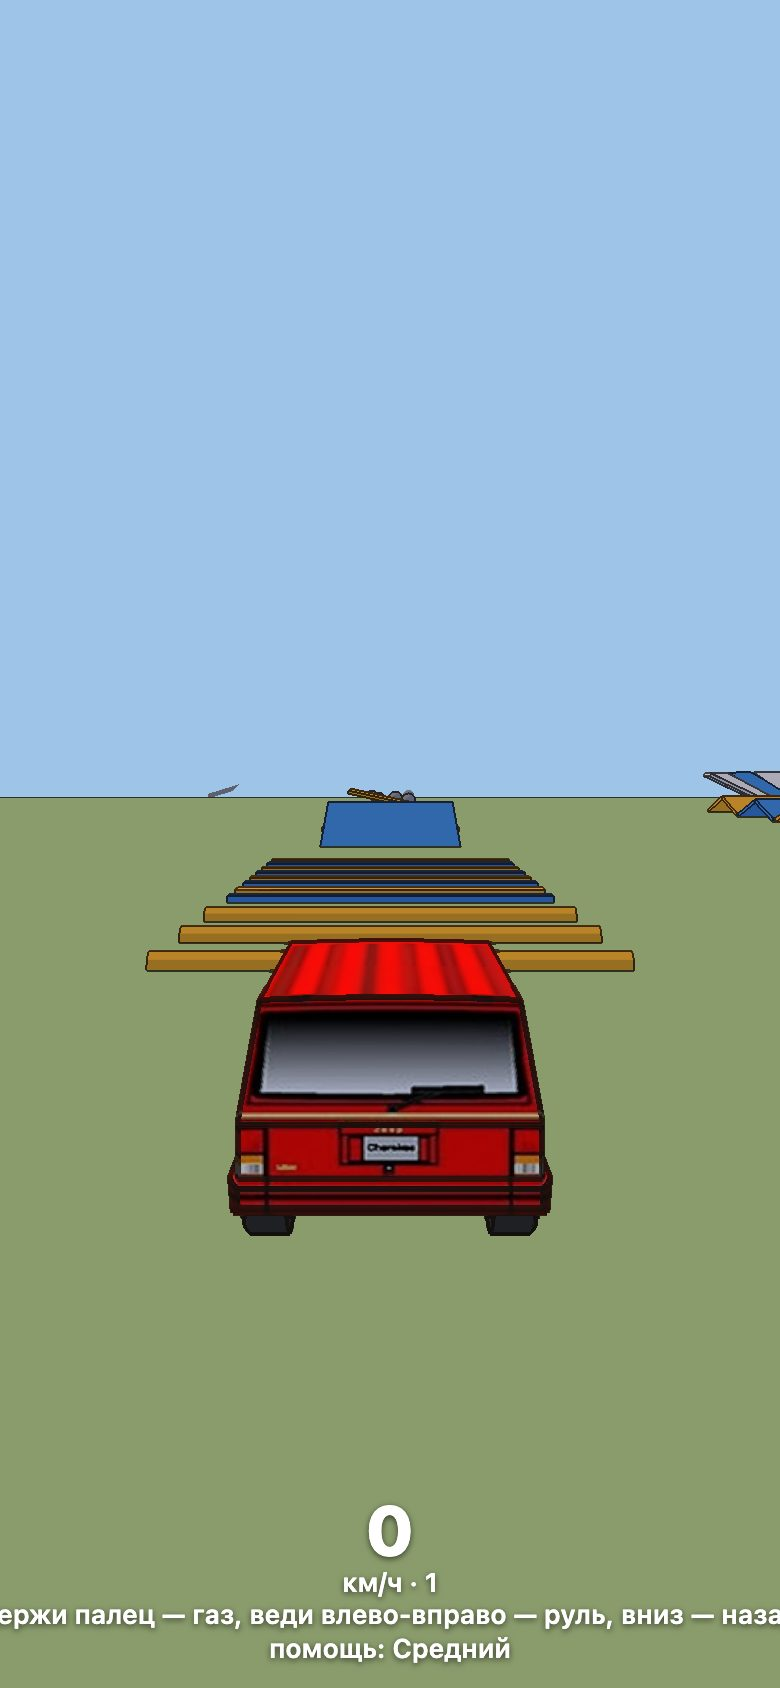
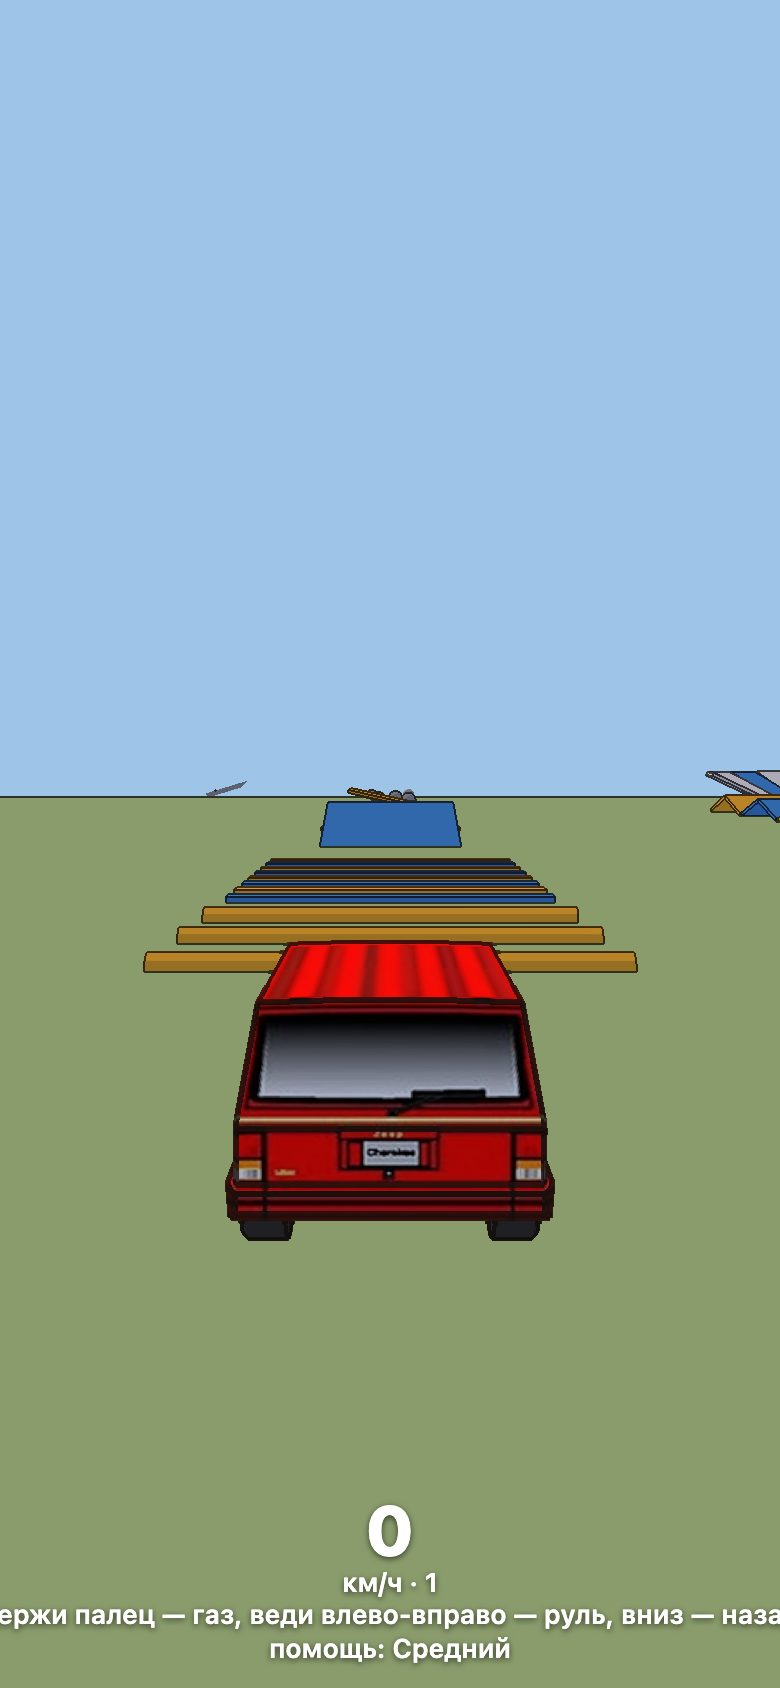
preview: car-smash (engine b232de3)

Changed region(s): [[0.1846, 0.5237, 0.8308, 0.7393], [0.8923, 0.4621, 1.0, 0.4929]]

diff --git a/car-smash/index.html b/car-smash/index.html
@@ -5,7 +5,7 @@
 
     <meta charset="UTF-8" />
     <meta name="viewport" content="width=device-width, initial-scale=1, maximum-scale=1, user-scalable=no, viewport-fit=cover" />
-    <title>CarSmash (в разработке)</title>
+    <title>CarSmash</title>
     <style>html,body{touch-action:none;background:#000;height:100%;margin:0;overflow:hidden}#app{position:fixed;inset:0}#app canvas{display:block}</style>
     <script type="module" crossorigin>var e=Object.defineProperty,t=(e,t,n)=>()=>{if(n)throw n[0];try{return e&&(t=e(e=0)),t}catch(e){throw n=[e],e}},n=(e,t)=>()=>(t||(e((t={exports:{}}).exports,t,t.exports),e=null),t.exports),r=(t,n)=>{let r={};for(var i in t)e(r,i,{get:t[i],enumerable:!0});return n||e(r,Symbol.toStringTag,{value:`Module`}),r},i={};function a(e,t,n,r){let a=i[e];a||=i[e]=[],a.push(t,n||null,r||!1)}function o(e,t,n){let r=i[e];if(r){if(!t)delete i[e];else{let a=[];for(let e=0;e<r.length;e+=3)(r[e]!==t||n!==void 0&&r[e+1]!==n)&&a.push(r[e],r[e+1],r[e+2]);a.length===0?delete i[e]:i[e]=a}}}function s(e,t,n,r){let a=i[e];if(!a||a.length===0)return;let s=arguments.length,c=a.length,l,u;for(let i=0;i<c;i+=3)l=a[i],u=a[i+1],a[i+2]&&o(e,l,u),s<=1?l.call(u):s==2?l.call(u,t):s==3?l.call(u,t,n):l.call(u,t,n,r)}var c=0,l=c++,u=c++,d=c++,f=c++,p=c++,m=c++,h=c++,g=c++,_=c++,v=c++,y=c++,b=l;function x(){return b===u}function S(){return b===d}function C(){return b===f}function w(){return b===p}function T(){return b===v}function E(){return b===m}function D(){return b===h}function O(){return b===g}function k(){return b===_}function A(){return b===y}function j(){if(AD_PROTOCOL===`mraid`)try{mraid.getState(),b=u}catch{}else if(AD_PROTOCOL===`dapi`)try{dapi.isReady(),b=d}catch{}else if(AD_NETWORK===`facebook`||AD_NETWORK===`moloco`||AD_NETWORK===`mytarget`)try{FbPlayableAd&&(b=p)}catch{}else if(AD_NETWORK===`google`)try{ExitApi&&(b=m)}catch{}else if(AD_NETWORK===`mintegral`)window.gameReady&&(b=h);else if(AD_NETWORK===`tapjoy`)window.TJ_API&&(b=g);else if(AD_NETWORK===`tiktok`||AD_NETWORK===`pangle`)window.openAppStore&&(b=_);else if(AD_NETWORK===`smadex`)try{smxTracking&&(b=v)}catch{}else if(AD_NETWORK===`snapchat`)try{ScPlayableAd&&(b=y)}catch{}}function M(){if(AD_NETWORK===`bigabid`||AD_NETWORK===`inmobi`||AD_NETWORK===`remerge`){let t=function(e){if(e){let t=new Image;t.src=e}};if(AD_NETWORK===`bigabid`){let n=function(e){window.BIGABID_BIDTIMEMACROS&&window.BIGABID_BIDTIMEMACROS[e]&&t(window.BIGABID_BIDTIMEMACROS[e])},r=function(){e||n(`complete`),e=!0};var e=!1;H.once(`boot`,()=>n(`mraid_viewable`)),H.once(`start`,()=>n(`game_viewable`)),H.once(`interaction`,()=>n(`engagement`)),H.once(`finish`,r),H.on(`interaction`,e=>{e>3&&r()}),H.once(`install`,()=>n(`click`))}else if(AD_NETWORK===`inmobi`){let e=function(e){window.INMOBI_DSPMACROS&&window.INMOBI_DSPMACROS[e]&&t(window.INMOBI_DSPMACROS[e])};H.once(`boot`,()=>e(`Ad_Load_Start`)),H.once(`start`,()=>e(`Ad_Viewable`)),H.once(`interaction`,()=>e(`First_Engagement`)),H.once(`finish`,()=>e(`Gameplay_Complete`)),H.once(`install`,()=>e(`DSP_Click`)),H.once(`start`,()=>{setTimeout(()=>e(`Spent_5_Seconds`),5e3),setTimeout(()=>e(`Spent_10_Seconds`),1e4),setTimeout(()=>e(`Spent_15_Seconds`),15e3),setTimeout(()=>e(`Spent_20_Seconds`),2e4),setTimeout(()=>e(`Spent_25_Seconds`),25e3),setTimeout(()=>e(`Spent_30_Seconds`),3e4)})}else if(AD_NETWORK===`remerge`){let e=function(e){window.REMERGE_BIDTIMEMACROS&&window.REMERGE_BIDTIMEMACROS[e]&&t(window.REMERGE_BIDTIMEMACROS[e])};H.once(`boot`,()=>e(`ready`)),H.once(`start`,()=>e(`impression`)),H.once(`interaction`,()=>e(`engagement`)),H.once(`install`,()=>e(`click`)),H.on(`error`,(e,n)=>{window.REMERGE_BIDTIMEMACROS&&window.REMERGE_BIDTIMEMACROS.error&&t(window.REMERGE_BIDTIMEMACROS.error.replace(/\{DOMAIN\}/g,encodeURIComponent(n||``)).replace(/\{ERR_MSG\}/g,encodeURIComponent(e||``)))})}}}var N=500,P=0,F=!1,I=!1,L=!1;function ee(e){return function(t){let n=t.changedTouches,r=t;if(n)P=t.timeStamp,r=n[0];else if(t.timeStamp-P<N)return;if(e===`pointerdown`)F=!0,H.interactions+=1,s(`interaction`,H.interactions);else if(F)e===`pointerup`&&(F=!!n&&t.touches.length>0);else return;s(e,r.clientX,r.clientY,t)}}var te=ee(`pointerdown`),ne=ee(`pointermove`),R=ee(`pointerup`);function re(e,t){document.addEventListener(e,t)}function z(){I||(I=!0,re(`mousedown`,te),re(`touchstart`,te),re(`mouseup`,R),re(`touchend`,R),re(`touchcancel`,R))}function ie(){L||(L=!0,re(`mousemove`,ne),re(`touchmove`,ne))}var ae=``,oe=!1,se=!1,ce=!1,le=!1,ue=1,de=()=>{};function fe(){H.isReady||=(s(`boot`),document.body.oncontextmenu=function(){return!1},de(H.maxWidth,H.maxHeight),s(`ready`),!0)}function pe(e){s(`volume`,e)}function me(e){H.volume=e,pe(e)}function he(e){ue=e,H.isPaused||me(ue)}function ge(){me(0),H.isPaused=!0,s(`pause`)}function _e(){ce||(me(ue),H.isPaused=!1,s(`resume`))}function B(e,t){xe(e,t)}function ve(){if(AD_PROTOCOL!==`mraid`||se)return;mraid.removeEventListener(`ready`,ve);function e(e){if(e){if(_e(),!H.isReady){let e=mraid.getMaxSize();H.maxWidth=Math.floor(e.width),H.maxHeight=Math.floor(e.height),fe()}}else ge()}function t(){return mraid.isViewable()&&mraid.getState()!==`hidden`}function n(){e(t())}mraid.addEventListener(`viewableChange`,n),mraid.addEventListener(`stateChange`,n),t()&&e(!0),mraid.getAudioVolume&&(mraid.getAudioVolume()?he(1):he(0)),mraid.addEventListener(`audioVolumeChange`,function(e){e!==null&&he(+(e>0))}),mraid.addEventListener(`error`,function(e,t){console.log(`mraid error: `+e+`   action: `+t),s(`error`,e,t)}),AD_NETWORK===`unity`?window.addEventListener(`resize`,function(){let e=mraid.getMaxSize();B(e.width,e.height)}):mraid.addEventListener(`sizeChange`,function(){let e=mraid.getMaxSize();B(e.width,e.height)}),se=!0}function ye(){if(AD_PROTOCOL!==`dapi`||se)return;function e(e){if(e.isViewable){if(_e(),!H.isReady){let e=dapi.getScreenSize();e.width=Math.floor(e.width),e.height=Math.floor(e.height),fe()}}else ge()}dapi.removeEventListener(`ready`,ye),dapi.getAudioVolume()?he(1):he(0),dapi.addEventListener(`audioVolumeChange`,function(e){he(+!!e)}),dapi.addEventListener(`adResized`,function(e){let t=dapi.getScreenSize();B(e.width||t.width,e.height||t.height)}),dapi.isViewable()&&e({isViewable:!0}),dapi.addEventListener(`viewableChange`,e),se=!0}function be(){if(se)return;AD_NETWORK===`mintegral`&&(window.mintGameStart=function(){_e(),xe(H.maxWidth,H.maxHeight)},window.mintGameClose=function(){ge()}),document.addEventListener(`visibilitychange`,()=>{document.visibilityState===`visible`?(_e(),!H.isReady&&document.readyState===`complete`&&fe()):ge()});function e(){document.visibilityState===`visible`&&fe()}document.readyState===`complete`?e():window.addEventListener(`load`,e),window.addEventListener(`resize`,function(){xe()}),AD_NETWORK===`tapjoy`&&O()&&window.TJ_API.setPlayableAPI&&window.TJ_API.setPlayableAPI({skipAd:function(){try{H.finish()}catch(e){console.warn(`Could not skip ad! | `+e)}}}),se=!0}function V(){window.TJ_API.objectiveComplete&&window.TJ_API.objectiveComplete(),window.TJ_API.playableFinished&&window.TJ_API.playableFinished(),window.TJ_API.gameplayFinished&&window.TJ_API.gameplayFinished()}function xe(e,t){H.maxWidth=Math.floor(e||window.innerWidth),H.maxHeight=Math.floor(t||window.innerHeight),H.isLandscape=H.maxWidth>H.maxHeight,s(`resize`,H.maxWidth,H.maxHeight)}function Se(){ae=/android/i.test(navigator.userAgent)?GOOGLE_PLAY_URL:APP_STORE_URL,j(),AD_PROTOCOL===`mraid`&&x()?mraid.getState()===`loading`?mraid.addEventListener(`ready`,ve):ve():AD_PROTOCOL===`dapi`&&S()?dapi.isReady()?ye():dapi.addEventListener(`ready`,ye):be(),s(`init`)}var Ce=class e{static init(e){oe||=(e&&(de=e),M(),document.readyState===`loading`?window.addEventListener(`DOMContentLoaded`,Se):Se(),!0)}static start(){e.isStarted||(e.isStarted=!0,s(`start`),z(),AD_NETWORK===`mintegral`&&D()?(e.resize(),ge(),window.gameReady&&window.gameReady()):(AD_NETWORK===`tapjoy`&&O()?window.TJ_API.setPlayableBuild({orientation:this.isLandscape?`landscape`:`portrait`,buildID:BUILD_HASH}):AD_NETWORK===`bidease`&&window.initGame&&window.initGame(),pe(e.volume),e.resize()))}static finish(){AD_NETWORK===`vungle`&&e.isFinished||(e.isFinished=!0,AD_NETWORK===`tapjoy`&&O()?V():AD_NETWORK===`mintegral`&&D()?window.gameEnd&&window.gameEnd():AD_NETWORK===`vungle`&&parent.postMessage(`complete`,`*`),s(`finish`))}static retry(){AD_NETWORK===`mintegral`&&D()||AD_PROTOCOL===`nucleo`&&C()&&NUC.trigger.tryAgain(),s(`retry`)}static install(){if(!e.isFinished&&AD_NETWORK!==`vungle`){let t=0;AD_NETWORK===`tapjoy`&&(t=300),e.finish(),setTimeout(function(){e.install()},t)}else le||(le=!0,setTimeout(function(){le=!1},500),s(`install`),AD_NETWORK===`tencent`&&window.TencentGDT&&window.TencentGDT.clickOpen?window.TencentGDT.clickOpen():AD_NETWORK===`bidease`&&window.trackClick?window.trackClick():AD_PROTOCOL===`mraid`&&x()?mraid.open(ae):AD_PROTOCOL===`dapi`&&S()?dapi.openStoreUrl():AD_PROTOCOL===`nucleo`&&C()?NUC.trigger.convert(ae):(AD_NETWORK===`facebook`||AD_NETWORK===`moloco`||AD_NETWORK===`mytarget`)&&w()?FbPlayableAd.onCTAClick():AD_NETWORK==`snapchat`&&A()?ScPlayableAd.onCTAClick():AD_NETWORK==`smadex`&&T()?smxTracking.redirect():AD_NETWORK==`vungle`?parent.postMessage(`download`,`*`):AD_NETWORK==`google`&&E()?ExitApi.exit():AD_NETWORK===`mintegral`&&D()?window.install&&window.install():AD_NETWORK===`tapjoy`&&O()?window.TJ_API.click():(AD_NETWORK===`tiktok`||AD_NETWORK===`pangle`)&&k()?window.openAppStore():window.open(ae))}static resize(){xe(e.maxWidth,e.maxHeight)}static pause(){ce||(ce=!0,ge())}static resume(){ce&&(ce=!1,_e())}static on(e,t,n){e===`pointermove`&&ie(),a(e,t,n)}static once(e,t,n){e===`pointermove`&&ie(),a(e,t,n,!0)}static off(e,t,n){o(e,t,n)}};Ce.version=`1.2.1`,Ce.maxWidth=Math.floor(window.innerWidth),Ce.maxHeight=Math.floor(window.innerHeight),Ce.isLandscape=window.innerWidth>window.innerHeight,Ce.isReady=!1,Ce.isStarted=!1,Ce.isPaused=!1,Ce.isFinished=!1,Ce.volume=ue,Ce.interactions=0;var H=Ce;window.console.log(`%c @smoud/playable-sdk %c v${H.version} `,`background: #007acc; color: #fff; font-size: 14px; padding: 4px 8px; border-top-left-radius: 4px; border-bottom-left-radius: 4px;`,`background: #e1e4e8; color: #333; font-size: 14px; padding: 4px 8px; border-top-right-radius: 4px; border-bottom-right-radius: 4px;`),window.PlayableSDK=H;function we(){return globalThis.AD_NETWORK===`preview`}function Te(){return new URLSearchParams(we()?globalThis.location?.search??``:``)}function Ee(e){return e.dataset.cta=``,e}var De=3e3,Oe=/^(ResizeObserver loop|Script error\.?$)/,ke=class{options;engine=null;crashed=!1;restoreTimer;contextLost=!1;constructor(e={}){this.options=e,addEventListener(`error`,e=>{Oe.test(e.message??``)||this.crash(e.error??e.message)}),addEventListener(`unhandledrejection`,e=>this.crash(e.reason))}attach(e){this.engine=e,e.onContextChange(e=>{this.contextLost=e,this.armRestore()}),globalThis.document?.addEventListener(`visibilitychange`,()=>this.armRestore())}armRestore(){clearTimeout(this.restoreTimer),this.restoreTimer=void 0,this.contextLost&&document.visibilityState===`visible`&&(this.restoreTimer=setTimeout(()=>this.crash(Error(`WebGL context lost`)),De))}crash(e){if(console.error(e),we()&&je(e),!this.crashed){this.crashed=!0;try{this.engine?.halt()}catch{}Ae(this.options),H.finish()}}};function Ae({image:e,label:t=`Install`,buttonImage:n}){let r=document.createElement(`div`);r.className=`ui-root`,r.style.cssText=`inset:0;--u:${Math.min(innerWidth,innerHeight)/100}px;z-index:9998;pointer-events:auto`;let i=document.createElement(`div`);if(i.className=`ui-screen`,i.dataset.crash=``,i.style.background=`rgba(10, 12, 20, 0.85)`,e){let t=document.createElement(`img`);t.src=e,t.style.cssText=`max-width:70%;max-height:40%;object-fit:contain`,i.append(t)}let a=Ee(document.createElement(n?`img`:`button`));a instanceof HTMLImageElement?(a.src=n,a.alt=t,a.style.cssText=`width:calc(var(--u) * 45);cursor:pointer;animation:ui-pulse 1s ease-in-out infinite`):(a.className=`ui-button ui-pulse`,a.textContent=t),i.append(a),i.addEventListener(`click`,()=>H.install()),r.append(i),document.body.append(r)}function je(e){let t=document.createElement(`pre`);t.style.cssText=`position:fixed;inset:auto 8px 8px 8px;margin:0;padding:8px;font:12px/1.4 monospace;white-space:pre-wrap;color:#fff;background:rgba(160,0,0,.85);z-index:9999`;let n=e instanceof Error&&e.cause?`\n${String(e.cause)}`:``;t.textContent=`Crash: ${e instanceof Error?e.message:String(e)}${n}`,document.body.append(t)}var Me=n((e=>{Object.defineProperty(e,"__esModule",{value:!0});function t(e,t){(t==null||t>e.length)&&(t=e.length);for(var n=0,r=Array(t);n<t;n++)r[n]=e[n];return r}function n(e){if(Array.isArray(e))return t(e)}function r(e){if(typeof Symbol<`u`&&e[Symbol.iterator]!=null||e[`@@iterator`]!=null)return Array.from(e)}function i(e,n){if(e){if(typeof e==`string`)return t(e,n);var r=Object.prototype.toString.call(e).slice(8,-1);if(r===`Object`&&e.constructor&&(r=e.constructor.name),r===`Map`||r===`Set`)return Array.from(e);if(r===`Arguments`||/^(?:Ui|I)nt(?:8|16|32)(?:Clamped)?Array$/.test(r))return t(e,n)}}function a(){throw TypeError(`Invalid attempt to spread non-iterable instance.
 In order to be iterable, non-array objects must have a [Symbol.iterator]() method.`)}function o(e){return n(e)||r(e)||i(e)||a()}function s(e,t){var n=typeof Symbol<`u`&&e[Symbol.iterator]||e[`@@iterator`];if(!n){if(Array.isArray(e)||(n=i(e))||t&&e&&typeof e.length==`number`){n&&(e=n);var r=0,a=function(){};return{s:a,n:function(){return r>=e.length?{done:!0}:{done:!1,value:e[r++]}},e:function(e){throw e},f:a}}throw TypeError(`Invalid attempt to iterate non-iterable instance.

diff --git a/index.html b/index.html
@@ -1,0 +1,51 @@
+<!doctype html>
+<html lang="en">
+<head>
+<meta charset="utf-8">
+<meta name="viewport" content="width=device-width,initial-scale=1">
+<title>Playable Ads Portfolio</title>
+<link rel="preconnect" href="https://fonts.googleapis.com">
+<link rel="preconnect" href="https://fonts.gstatic.com" crossorigin>
+<link href="https://fonts.googleapis.com/css2?family=Space+Grotesk:wght@500;700&family=Inter:wght@400;500&display=swap" rel="stylesheet">
+<script>try{var t=localStorage.getItem("theme");if(t)document.documentElement.dataset.theme=t}catch(e){}</script>
+<style>
+:root{--bg:#f5f4f0;--card:#fff;--text:#16161a;--dim:#6b6b76;--accent:#ff5c35;--line:#e4e2dc;--shadow:0 8px 30px rgba(0,0,0,.08)}
+@media(prefers-color-scheme:dark){:root:not([data-theme=light]){--bg:#0e0f13;--card:#181a21;--text:#f1f1f4;--dim:#8d8f9c;--line:#262933;--shadow:0 8px 30px rgba(0,0,0,.45)}}
+:root[data-theme=dark]{--bg:#0e0f13;--card:#181a21;--text:#f1f1f4;--dim:#8d8f9c;--line:#262933;--shadow:0 8px 30px rgba(0,0,0,.45)}
+*{box-sizing:border-box}
+body{margin:0;background:var(--bg);color:var(--text);font:400 16px/1.5 Inter,system-ui,sans-serif;transition:background .25s,color .25s}
+main{max-width:1040px;margin:0 auto;padding:0 16px 64px}
+header{display:flex;justify-content:space-between;align-items:flex-start;gap:16px;padding:48px 0 32px}
+h1{font:700 clamp(30px,6vw,52px)/1.05 "Space Grotesk",sans-serif;margin:0 0 12px;letter-spacing:-.02em}
+header p{margin:0;color:var(--dim);max-width:520px}
+header a{color:var(--accent);text-decoration:none}
+#theme{flex:none;width:44px;height:44px;border-radius:50%;border:1px solid var(--line);background:var(--card);color:var(--text);font-size:20px;cursor:pointer;box-shadow:var(--shadow)}
+.grid{display:grid;grid-template-columns:repeat(auto-fill,minmax(250px,1fr));gap:20px}
+.card{position:relative;display:flex;flex-direction:column;background:var(--card);border:1px solid var(--line);border-radius:20px;overflow:hidden;text-decoration:none;color:inherit;box-shadow:var(--shadow);transition:transform .2s}
+.card:hover{transform:translateY(-4px)}
+.cover{position:relative;aspect-ratio:390/844;max-height:420px;overflow:hidden;background:var(--line)}
+.cover img{width:100%;height:100%;object-fit:cover;object-position:top;display:block}
+.badge{position:absolute;top:12px;left:12px;background:var(--accent);color:#fff;font:700 12px "Space Grotesk",sans-serif;padding:4px 10px;border-radius:99px;letter-spacing:.03em}
+.meta{padding:16px 16px 4px}
+h2{font:700 20px "Space Grotesk",sans-serif;margin:0}
+.meta p{margin:2px 0 0;color:var(--dim);font-size:14px}
+.play{margin:12px 16px 16px;padding:10px;text-align:center;border-radius:12px;background:var(--accent);color:#fff;font:700 15px "Space Grotesk",sans-serif}
+</style>
+</head>
+<body>
+<main>
+<header>
+<div><h1>Playable Ads Portfolio</h1><p>Interactive 3D playable ads, built with <a href="https://github.com/doctormiw/drm-engine">drm-engine</a>. Tap a card to play in your browser (best on a phone).</p></div>
+<button id="theme" aria-label="Toggle theme">◐</button>
+</header>
+<div class="grid">
+<a class="card" href="https://doctormiw.github.io/previews/car-smash/"><div class="cover"><img src="car-smash/cover.jpg" alt="CarSmash" loading="lazy"><span class="badge">In development</span></div><div class="meta"><h2>CarSmash</h2><p>1.8 MB · 2026-11-08</p></div><span class="play">▶ Play</span></a>
+<a class="card" href="https://doctormiw.github.io/previews/hole/"><div class="cover"><img src="hole/cover.jpg" alt="HoleGame" loading="lazy"></div><div class="meta"><h2>HoleGame</h2><p>2.3 MB · 2026-11-07</p></div><span class="play">▶ Play</span></a>
+<a class="card" href="https://doctormiw.github.io/previews/laptop/"><div class="cover"><img src="laptop/cover.gif" alt="Break the Laptop" loading="lazy"></div><div class="meta"><h2>Break the Laptop</h2><p>2.5 MB · 2026-11-01</p></div><span class="play">▶ Play</span></a>
+</div>
+</main>
+<script>
+document.getElementById("theme").onclick=function(){var d=document.documentElement,dark=d.dataset.theme?d.dataset.theme==="dark":matchMedia("(prefers-color-scheme:dark)").matches,n=dark?"light":"dark";d.dataset.theme=n;try{localStorage.setItem("theme",n)}catch(e){}};
+</script>
+</body>
+</html>

diff --git a/README.md b/README.md
@@ -5,8 +5,8 @@ Interactive 3D playable ads, built with [drm-engine](https://github.com/doctormi
 <table>
 <tr>
 <td align="center" valign="top">
-<a href="https://doctormiw.github.io/previews/car-smash/"><img src="car-smash/cover.jpg" width="240" alt="CarSmash (в разработке)"></a><br>
-<b>CarSmash (в разработке)</b><br>
+<a href="https://doctormiw.github.io/previews/car-smash/"><img src="car-smash/cover.jpg" width="240" alt="CarSmash"></a><br>
+<b>CarSmash</b> <i>(In development)</i><br>
 <a href="https://doctormiw.github.io/previews/car-smash/">▶ Play online</a><br>
 <sub>1.8 MB · 2026-11-08</sub>
 </td>
